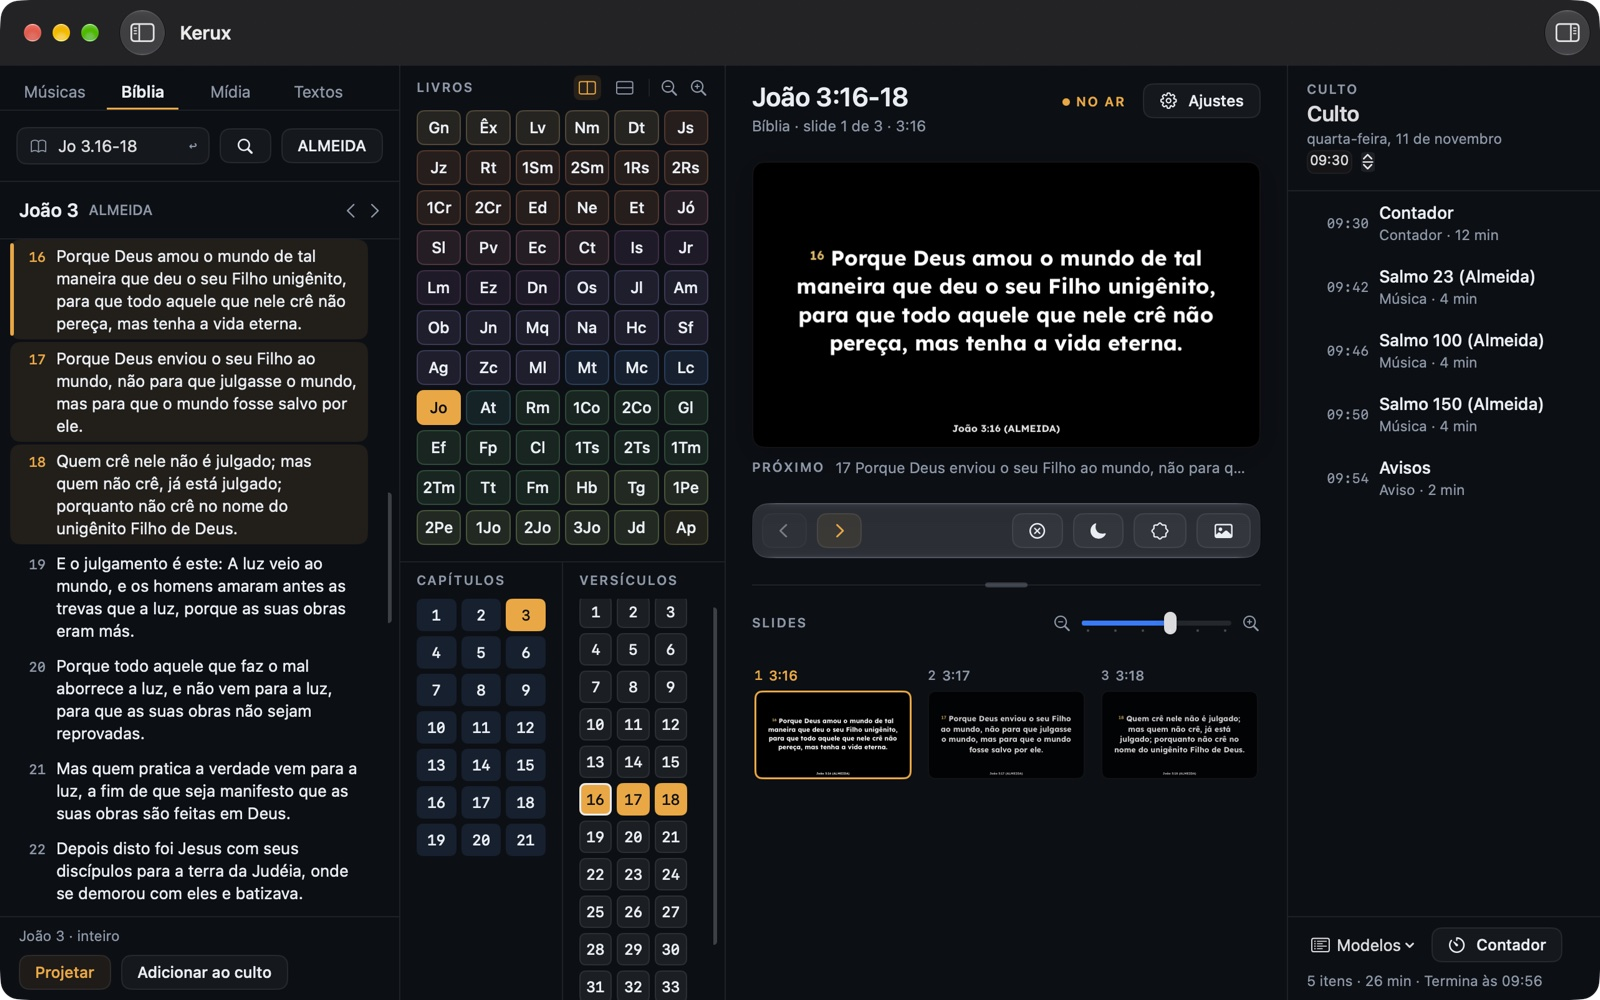
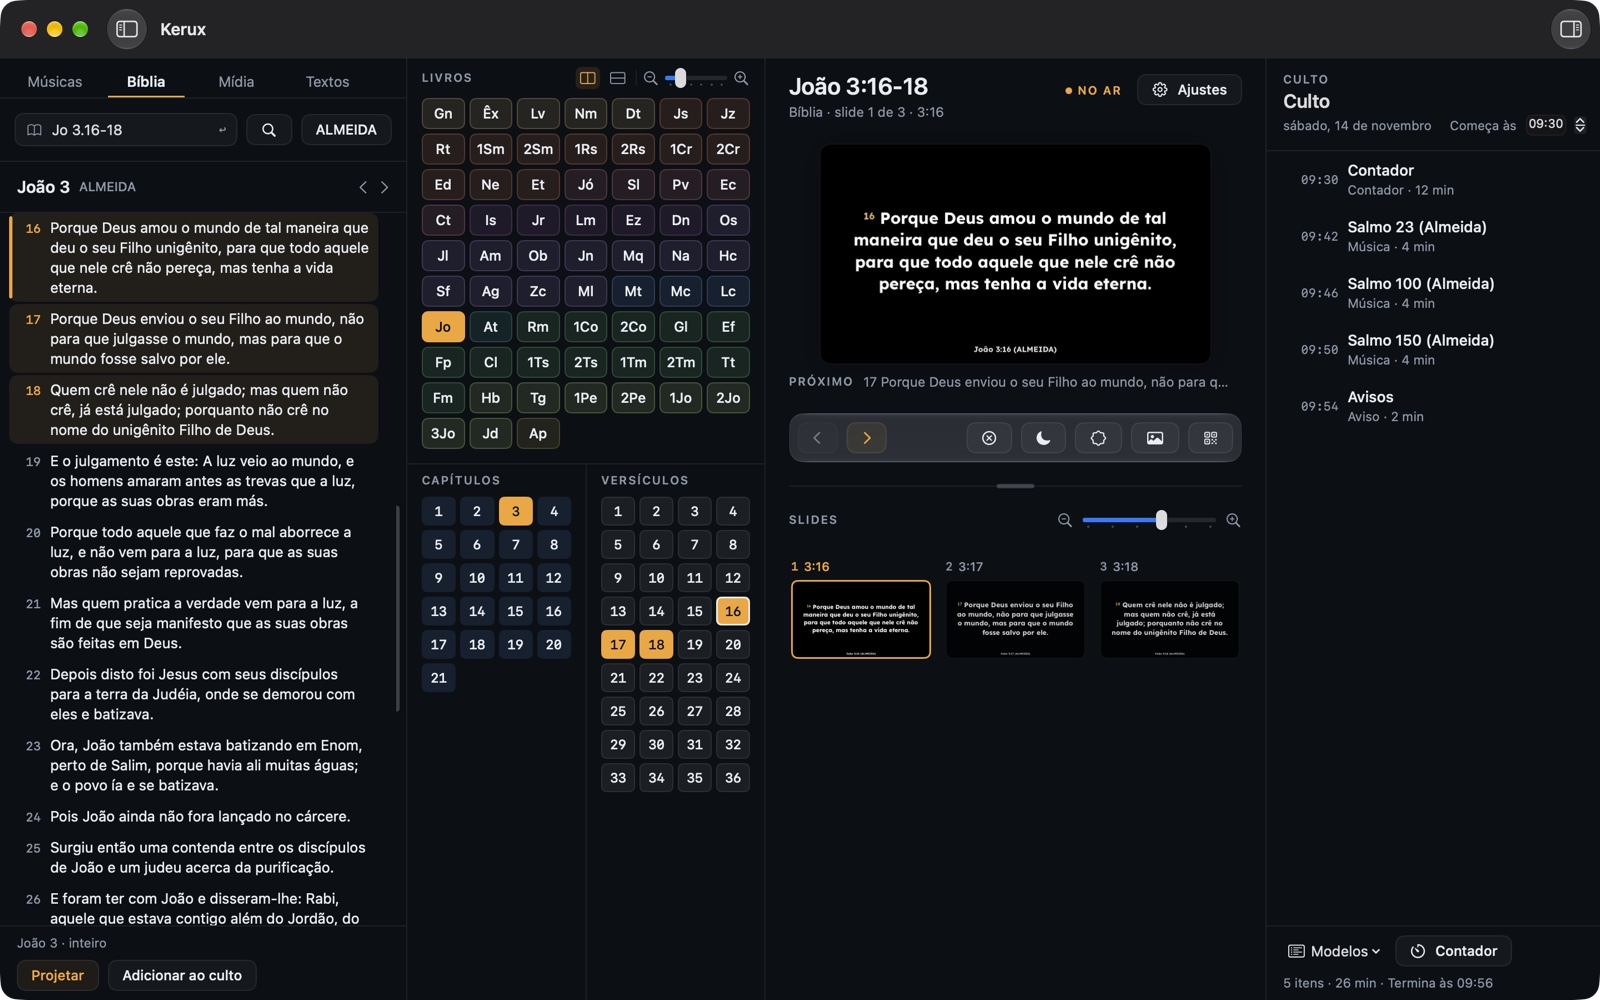
Kerux 1.1.0: download, novidade Acompanhar a letra e prints do Mac com o botão novo

diff --git a/public/kerux/index.html b/public/kerux/index.html
@@ -138,6 +138,12 @@
               controle. Nunca baixa o vídeo.</p>
           </div>
           <div>
+            <h3>Acompanhar a letra no celular</h3>
+            <p>Um QR no telão leva a congregação a ler no celular, pelo app Kerux Controle Remoto, o texto que está
+              sendo projetado. Fica por cima do slide, sem mexer na letra, e você liga e desliga pelo botão
+              Acompanhar. <a href="/kerux/acompanhar/">Saiba mais</a>.</p>
+          </div>
+          <div>
             <h3>Controle pelo celular</h3>
             <p>Passe slides e projete versículos de qualquer lugar da igreja, pelo navegador ou pelo
               <a href="#kerux-app">Kerux Controle Remoto</a>.</p>
@@ -186,12 +192,12 @@
           definitiva ainda não foi definida.</p>
         <div class="sw-dl">
           <div class="download-row">
-            <a class="btn btn-primary" href="https://github.com/orddum/kerux-releases/releases/download/v1.0.2/Kerux-1.0.2.dmg" rel="noopener">Baixar Kerux 1.0.2 para Mac</a>
+            <a class="btn btn-primary" href="https://github.com/orddum/kerux-releases/releases/download/v1.1.0/Kerux-1.1.0.dmg" rel="noopener">Baixar Kerux 1.1.0 para Mac</a>
             <a class="btn btn-secondary" href="#instalar">Como instalar</a>
           </div>
-          <p class="download-meta">Kerux-1.0.2.dmg · 20,9 MB (20 950 120 bytes) · macOS 14+ · chip Apple · notarizado pela Apple</p>
-          <p class="sw-hash"><strong>SHA-256:</strong> 8110d7db7ce9b1cb2fb524c5c8cb9d5cac7c4c118c267246d16ec46eba819713</p>
-          <p class="sw-soon">Para conferir o arquivo baixado, rode <code>shasum -a 256 ~/Downloads/Kerux-1.0.2.dmg</code>
+          <p class="download-meta">Kerux-1.1.0.dmg · 21,0 MB (21 035 853 bytes) · macOS 14+ · chip Apple · notarizado pela Apple</p>
+          <p class="sw-hash"><strong>SHA-256:</strong> 0f30640fd5a19c7a59c5682aa768ccac4311434b81191dffaa2f234880a4095d</p>
+          <p class="sw-soon">Para conferir o arquivo baixado, rode <code>shasum -a 256 ~/Downloads/Kerux-1.1.0.dmg</code>
             no Terminal e compare com o valor acima.</p>
         </div>
 
@@ -202,7 +208,7 @@
             alt="Janela do instalador do Kerux: o ícone do Kerux, uma seta e a pasta Aplicativos, com o texto “Arraste o Kerux para Aplicativos”.">
         </figure>
         <ol class="steps">
-          <li>Dê duplo clique em <strong>Kerux-1.0.2.dmg</strong>. Abre uma janela com o ícone do Kerux e a pasta Aplicativos.</li>
+          <li>Dê duplo clique em <strong>Kerux-1.1.0.dmg</strong>. Abre uma janela com o ícone do Kerux e a pasta Aplicativos.</li>
           <li><strong>Arraste o Kerux para Aplicativos.</strong> Depois ejete o disco e apague o arquivo baixado.</li>
           <li>Abra o Kerux pelo Launchpad. Na primeira vez, o macOS pergunta se você quer abrir um app baixado da
             internet: clique em <strong>Abrir</strong>.</li>
